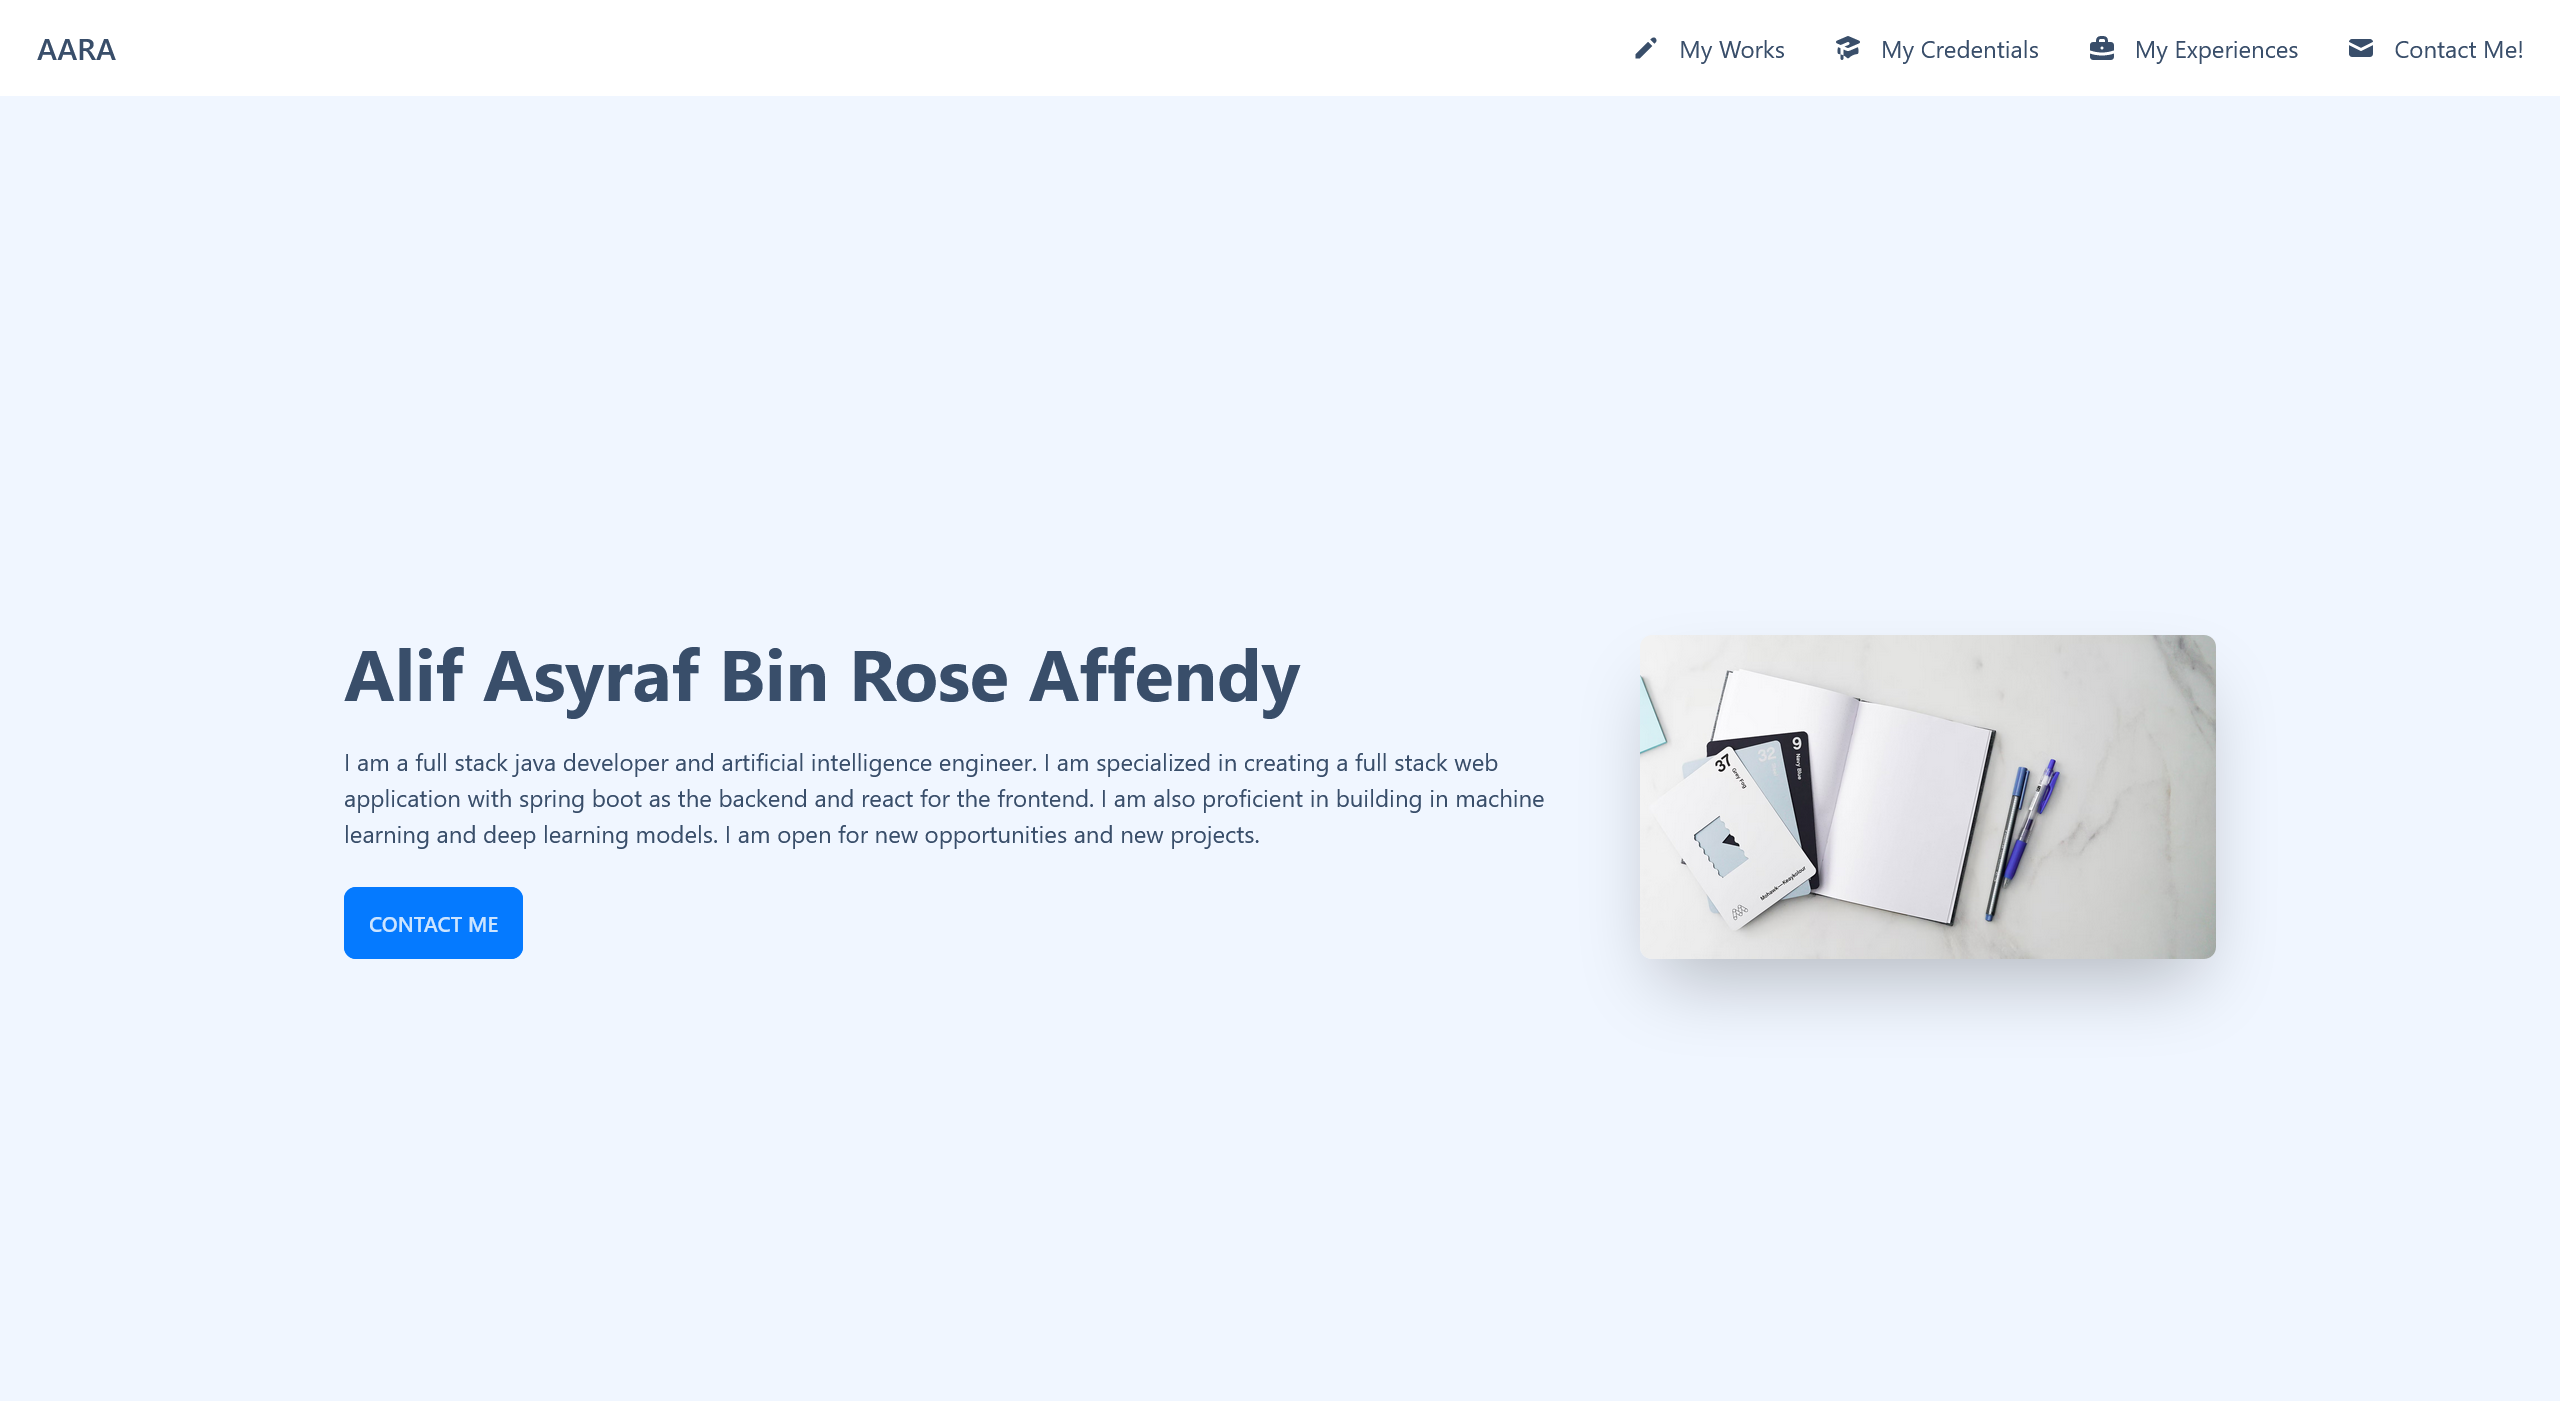
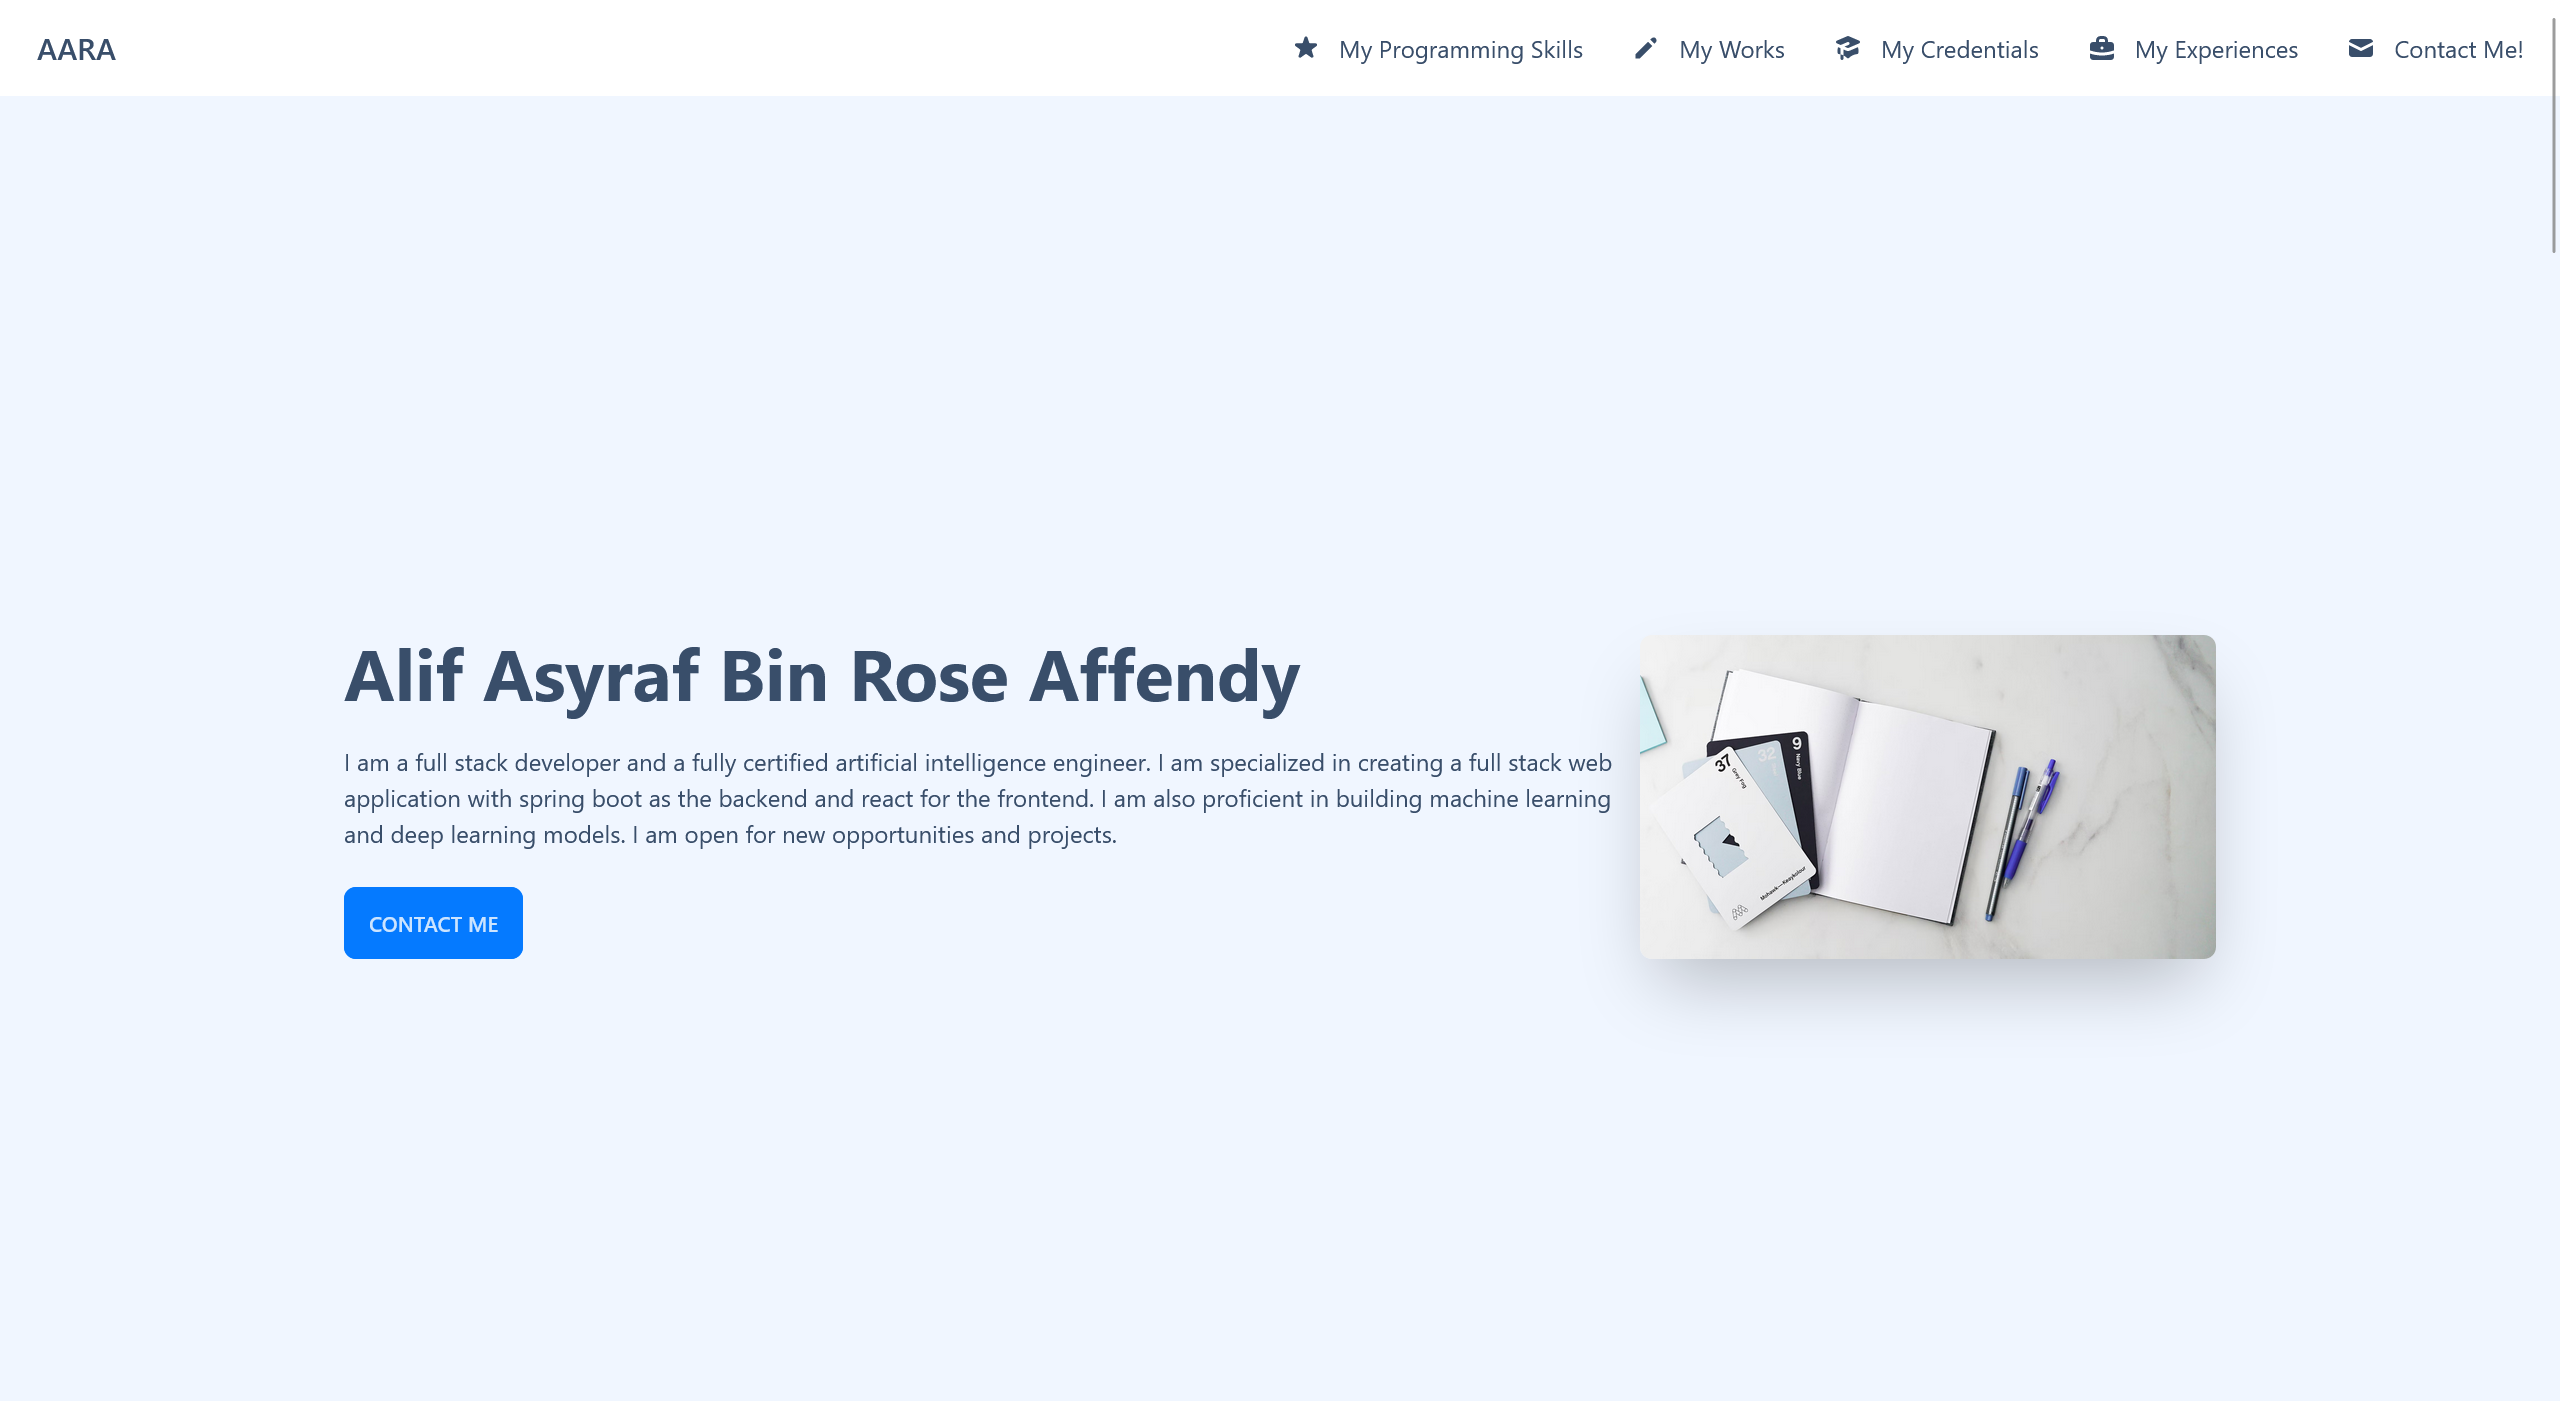
Update page

Changed region(s): [[0.1875, 0.5218, 0.625, 0.5832], [0.125, 0.5832, 0.5, 0.6138], [0.5, 0.0307, 0.625, 0.0614]]

diff --git a/src/components/ProgrammingSkills.js b/src/components/ProgrammingSkills.js
@@ -1,0 +1,268 @@
+import React from "react";
+
+function ProgrammingSkills() {
+	return (
+		<div id="programmingSkills">
+			<div class="min-h-screen bg-base-200 pt-12 place-items-center">
+				<h4 class="font-bold pb-2 border-b border-gray-200 text-3xl text-center">
+					My Programming Skills
+				</h4>
+
+				<div class="flex justify-center">
+					<ul class="list-disc">
+						<div class="flex items-center">
+							<li class="px-5 py-10">
+								Python programming language
+							</li>
+
+							<div class="rating rating-md">
+								<input
+									type="radio"
+									name="rating"
+									class="mask mask-star-2 bg-orange-400"
+								/>
+								<input
+									type="radio"
+									name="rating"
+									class="mask mask-star-2 bg-orange-400"
+								/>
+								<input
+									type="radio"
+									name="rating"
+									class="mask mask-star-2 bg-orange-400"
+								/>
+								<input
+									type="radio"
+									name="rating"
+									class="mask mask-star-2 bg-orange-400"
+								/>
+								<input
+									type="radio"
+									name="rating"
+									class="mask mask-star-2 bg-orange-400"
+									checked
+								/>
+							</div>
+						</div>
+
+						<div class="flex items-center">
+							<li class="px-5 py-10">
+								Machine learning and deep learning in Python
+								with scikit-learn and tensorflow
+							</li>
+
+							<div class="rating rating-md">
+								<input
+									type="radio"
+									name="rating"
+									class="mask mask-star-2 bg-orange-400"
+								/>
+								<input
+									type="radio"
+									name="rating"
+									class="mask mask-star-2 bg-orange-400"
+								/>
+								<input
+									type="radio"
+									name="rating"
+									class="mask mask-star-2 bg-orange-400"
+								/>
+								<input
+									type="radio"
+									name="rating"
+									class="mask mask-star-2 bg-orange-400"
+								/>
+								<input
+									type="radio"
+									name="rating"
+									class="mask mask-star-2 bg-orange-400"
+									checked
+								/>
+							</div>
+						</div>
+
+						<div class="flex items-center">
+							<li class="px-5 py-10">
+								Java programming language
+							</li>
+
+							<div class="rating rating-md">
+								<input
+									type="radio"
+									name="rating"
+									class="mask mask-star-2 bg-orange-400"
+								/>
+								<input
+									type="radio"
+									name="rating"
+									class="mask mask-star-2 bg-orange-400"
+								/>
+								<input
+									type="radio"
+									name="rating"
+									class="mask mask-star-2 bg-orange-400"
+								/>
+								<input
+									type="radio"
+									name="rating"
+									class="mask mask-star-2 bg-orange-400"
+								/>
+								<input
+									type="radio"
+									name="rating"
+									class="mask mask-star-2 bg-orange-400"
+									checked
+								/>
+							</div>
+						</div>
+
+						<div class="flex items-center">
+							<li class="px-5 py-10">
+								Deep learning in Java with Deeplearning4j
+								framework
+							</li>
+
+							<div class="rating rating-md">
+								<input
+									type="radio"
+									name="rating"
+									class="mask mask-star-2 bg-orange-400"
+								/>
+								<input
+									type="radio"
+									name="rating"
+									class="mask mask-star-2 bg-orange-400"
+								/>
+								<input
+									type="radio"
+									name="rating"
+									class="mask mask-star-2 bg-orange-400"
+								/>
+								<input
+									type="radio"
+									name="rating"
+									class="mask mask-star-2 bg-orange-400"
+								/>
+								<input
+									type="radio"
+									name="rating"
+									class="mask mask-star-2 bg-orange-400"
+									checked
+								/>
+							</div>
+						</div>
+
+						<div class="flex items-center">
+							<li class="px-5 py-10">
+								Backend programming in Java with Spring boot
+								framework
+							</li>
+
+							<div class="rating rating-md">
+								<input
+									type="radio"
+									name="rating"
+									class="mask mask-star-2 bg-orange-400"
+								/>
+								<input
+									type="radio"
+									name="rating"
+									class="mask mask-star-2 bg-orange-400"
+								/>
+								<input
+									type="radio"
+									name="rating"
+									class="mask mask-star-2 bg-orange-400"
+								/>
+								<input
+									type="radio"
+									name="rating"
+									class="mask mask-star-2 bg-orange-400"
+								/>
+								<input
+									type="radio"
+									name="rating"
+									class="mask mask-star-2 bg-orange-400"
+									checked
+								/>
+							</div>
+						</div>
+
+						<div class="flex items-center">
+							<li class="px-5 py-10">
+								Frontend programming with React framework,
+								Bootstrap, TailwindCSS and ChakraUI
+							</li>
+
+							<div class="rating rating-md">
+								<input
+									type="radio"
+									name="rating"
+									class="mask mask-star-2 bg-orange-400"
+								/>
+								<input
+									type="radio"
+									name="rating"
+									class="mask mask-star-2 bg-orange-400"
+								/>
+								<input
+									type="radio"
+									name="rating"
+									class="mask mask-star-2 bg-orange-400"
+								/>
+								<input
+									type="radio"
+									name="rating"
+									class="mask mask-star-2 bg-orange-400"
+								/>
+								<input
+									type="radio"
+									name="rating"
+									class="mask mask-star-2 bg-orange-400"
+									checked
+								/>
+							</div>
+						</div>
+
+						<div class="flex items-center">
+							<li class="px-5 py-10">
+								SQL database (MariaDB, PostgreSQL)
+							</li>
+
+							<div class="rating rating-md">
+								<input
+									type="radio"
+									name="rating"
+									class="mask mask-star-2 bg-orange-400"
+								/>
+								<input
+									type="radio"
+									name="rating"
+									class="mask mask-star-2 bg-orange-400"
+								/>
+								<input
+									type="radio"
+									name="rating"
+									class="mask mask-star-2 bg-orange-400"
+								/>
+								<input
+									type="radio"
+									name="rating"
+									class="mask mask-star-2 bg-orange-400"
+								/>
+								<input
+									type="radio"
+									name="rating"
+									class="mask mask-star-2 bg-orange-400"
+									checked
+								/>
+							</div>
+						</div>
+					</ul>
+				</div>
+			</div>
+		</div>
+	);
+}
+
+export default ProgrammingSkills;

diff --git a/src/components/Hero.js b/src/components/Hero.js
@@ -17,16 +17,16 @@ function Hero() {
 						<h1 class="text-5xl font-bold">
 							Alif Asyraf Bin Rose Affendy
 						</h1>
-						<p class="py-6">
-							I am a full stack java developer and artificial
-							intelligence engineer. I am specialized in creating
-							a full stack web application with spring boot as the
-							backend and react for the frontend. I am also
-							proficient in building in machine learning and deep
-							learning models. I am open for new opportunities and
-							new projects.
-						</p>
 
+						<p class="py-6">
+							I am a full stack developer and a fully certified
+							artificial intelligence engineer. I am specialized
+							in creating a full stack web application with spring
+							boot as the backend and react for the frontend. I am
+							also proficient in building machine learning and
+							deep learning models. I am open for new
+							opportunities and projects.
+						</p>
 						<div class="btn-group">
 							<a href="#contact">
 								<button class="btn btn-primary">

diff --git a/src/components/Navbar.js b/src/components/Navbar.js
@@ -11,6 +11,19 @@ function Navbar() {
 			<div className="flex-none">
 				<ul className="menu menu-horizontal p-0">
 					<li>
+						<a href="#programmingSkills">
+							<svg
+								xmlns="http://www.w3.org/2000/svg"
+								class="h-5 w-5"
+								viewBox="0 0 20 20"
+								fill="currentColor"
+							>
+								<path d="M9.049 2.927c.3-.921 1.603-.921 1.902 0l1.07 3.292a1 1 0 00.95.69h3.462c.969 0 1.371 1.24.588 1.81l-2.8 2.034a1 1 0 00-.364 1.118l1.07 3.292c.3.921-.755 1.688-1.54 1.118l-2.8-2.034a1 1 0 00-1.175 0l-2.8 2.034c-.784.57-1.838-.197-1.539-1.118l1.07-3.292a1 1 0 00-.364-1.118L2.98 8.72c-.783-.57-.38-1.81.588-1.81h3.461a1 1 0 00.951-.69l1.07-3.292z" />
+							</svg>
+							My Programming Skills
+						</a>
+					</li>
+					<li>
 						<a href="#works">
 							<svg
 								xmlns="http://www.w3.org/2000/svg"

diff --git a/src/App.js b/src/App.js
@@ -1,18 +1,20 @@
 import React from "react";
+
 import Contact from "./components/Contact";
 import Credentials from "./components/Credentials";
 import Experience from "./components/Experience";
 import Footer from "./components/Footer";
-
 import Hero from "./components/Hero";
 import Navbar from "./components/Navbar";
 import Works from "./components/Works";
+import ProgrammingSkills from "./components/ProgrammingSkills";
 
 function App() {
 	return (
 		<div>
 			<Navbar />
 			<Hero />
+			<ProgrammingSkills />
 			<Works />
 			<Credentials />
 			<Experience />
